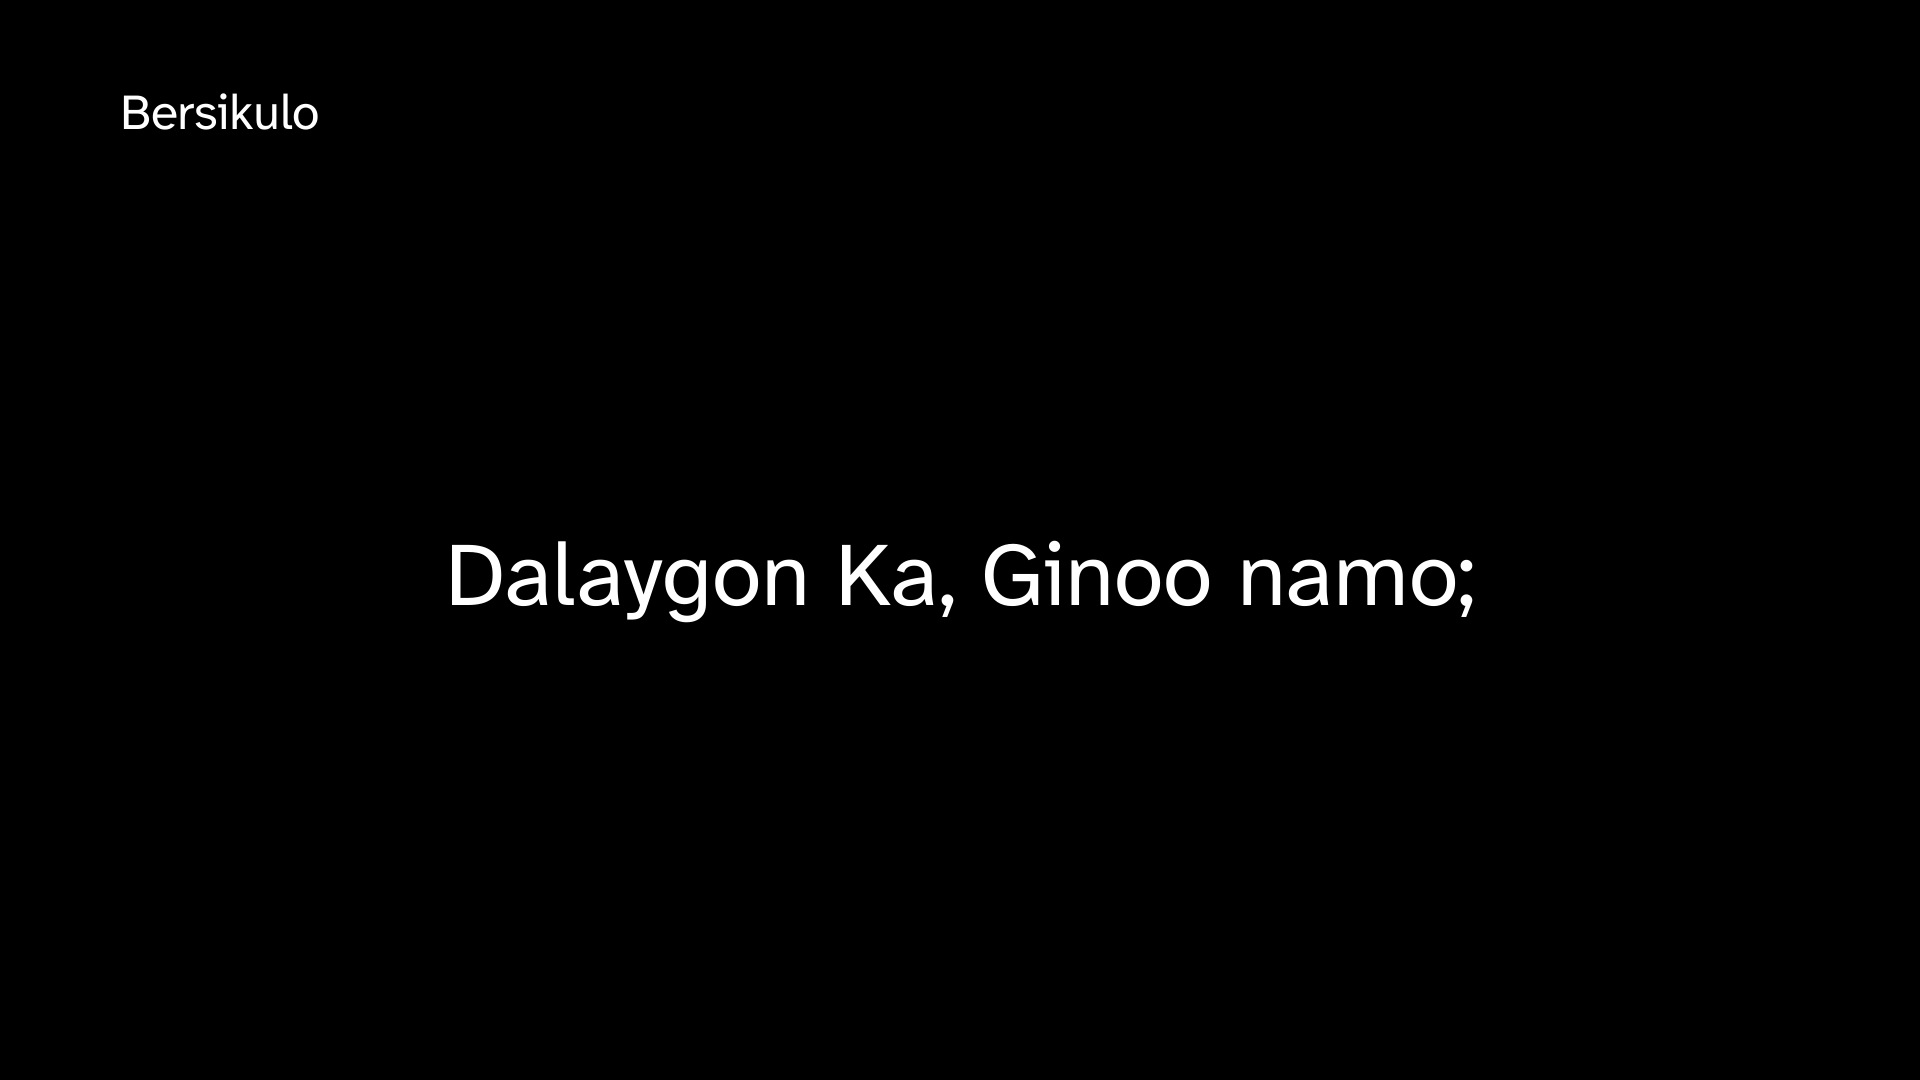
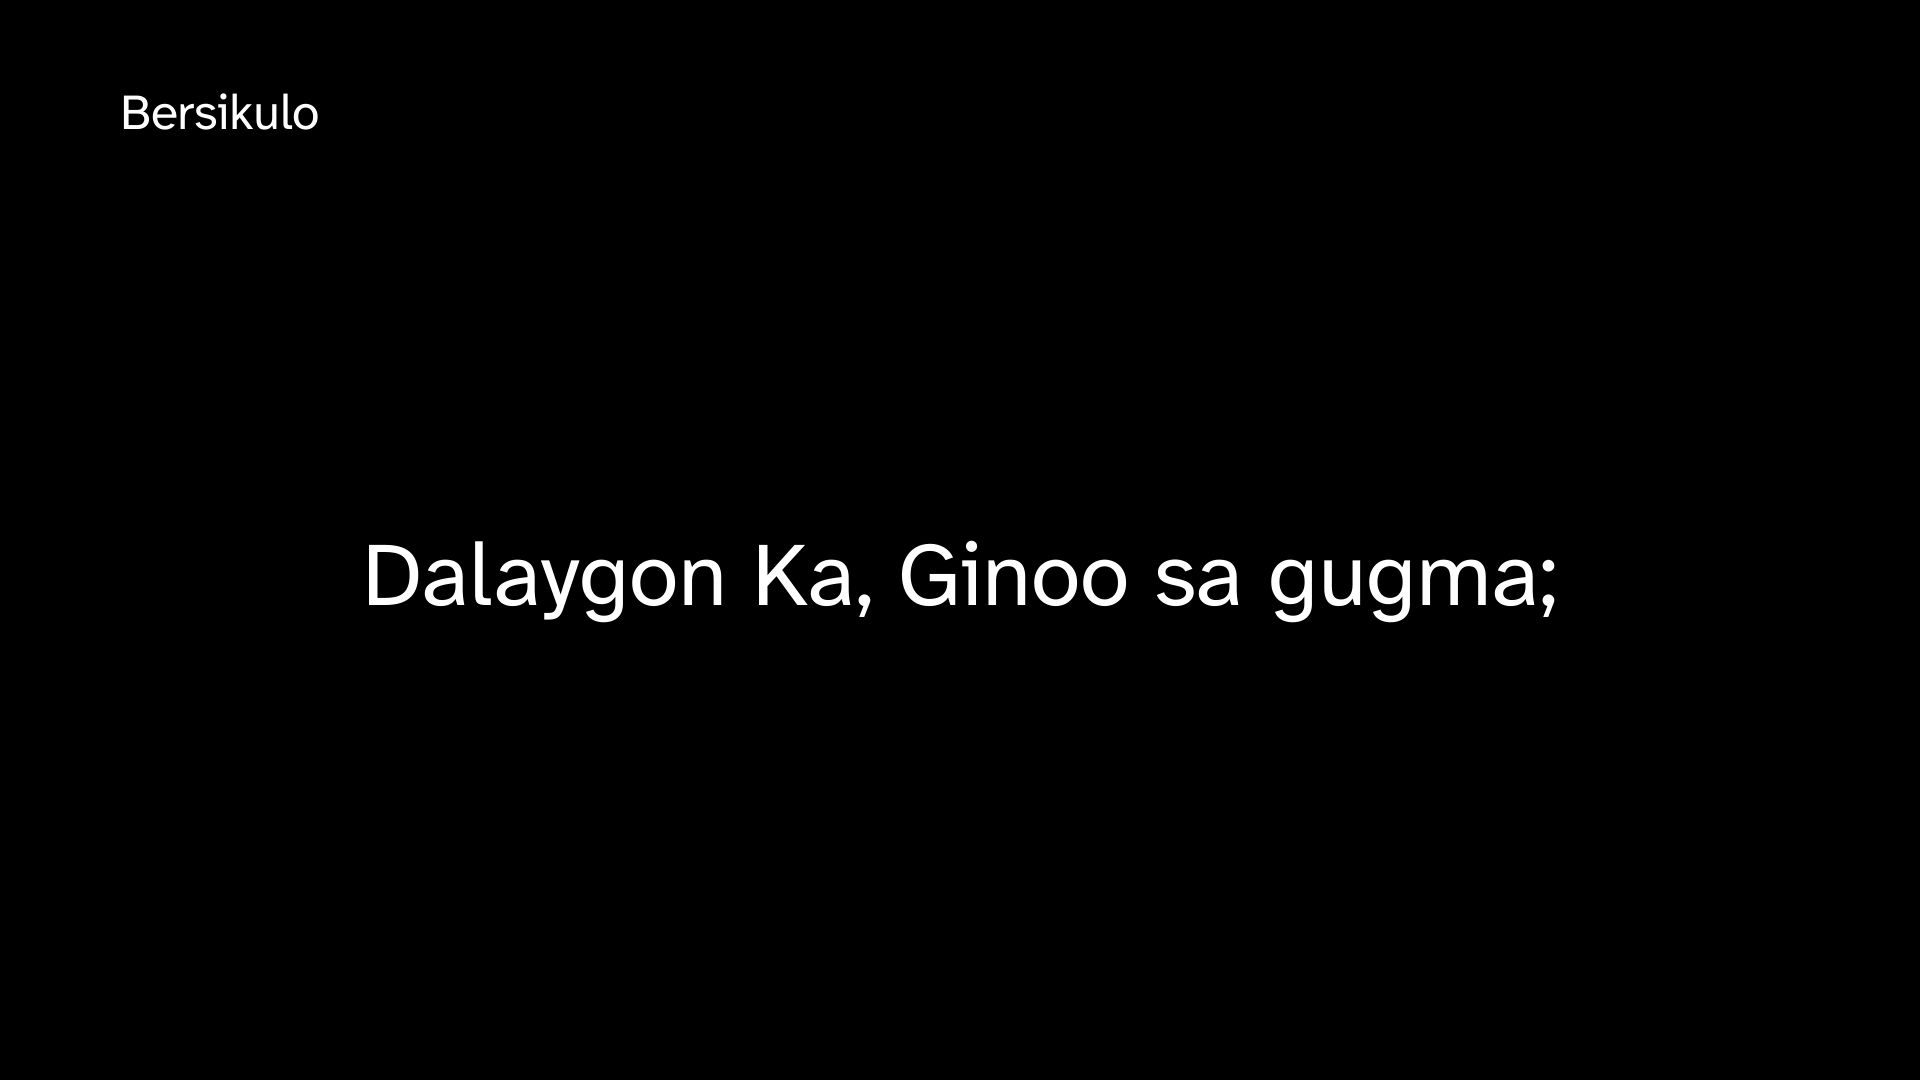
test(rendering): refresh Cebuano lyric fixture

Changed region(s): [[0.1875, 0.4889, 0.8125, 0.5806]]

diff --git a/docs/qualification/T0.4-GALLERY-CANDIDATE.md b/docs/qualification/T0.4-GALLERY-CANDIDATE.md
@@ -63,7 +63,7 @@ measured heights (e.g. meta header `46px` → `58px`, display content `83px` →
 fallback routing, and the cross-platform invariance probe now composes 4 body
 lines where it composed 3 (same 3 authored lines; content `416px` vs `862px`
 available, still `fit=fits`). `lyrics-cebuano-one-line` carries
-`Dalaygon Ka, Ginoo namo;` so the corpus keeps a true one-line Cebuano
+`Dalaygon Ka, Ginoo sa gugma;` so the corpus keeps a true one-line Cebuano
 case at the candidate size (the longer line now wraps to two).
 
 ## How this was generated
